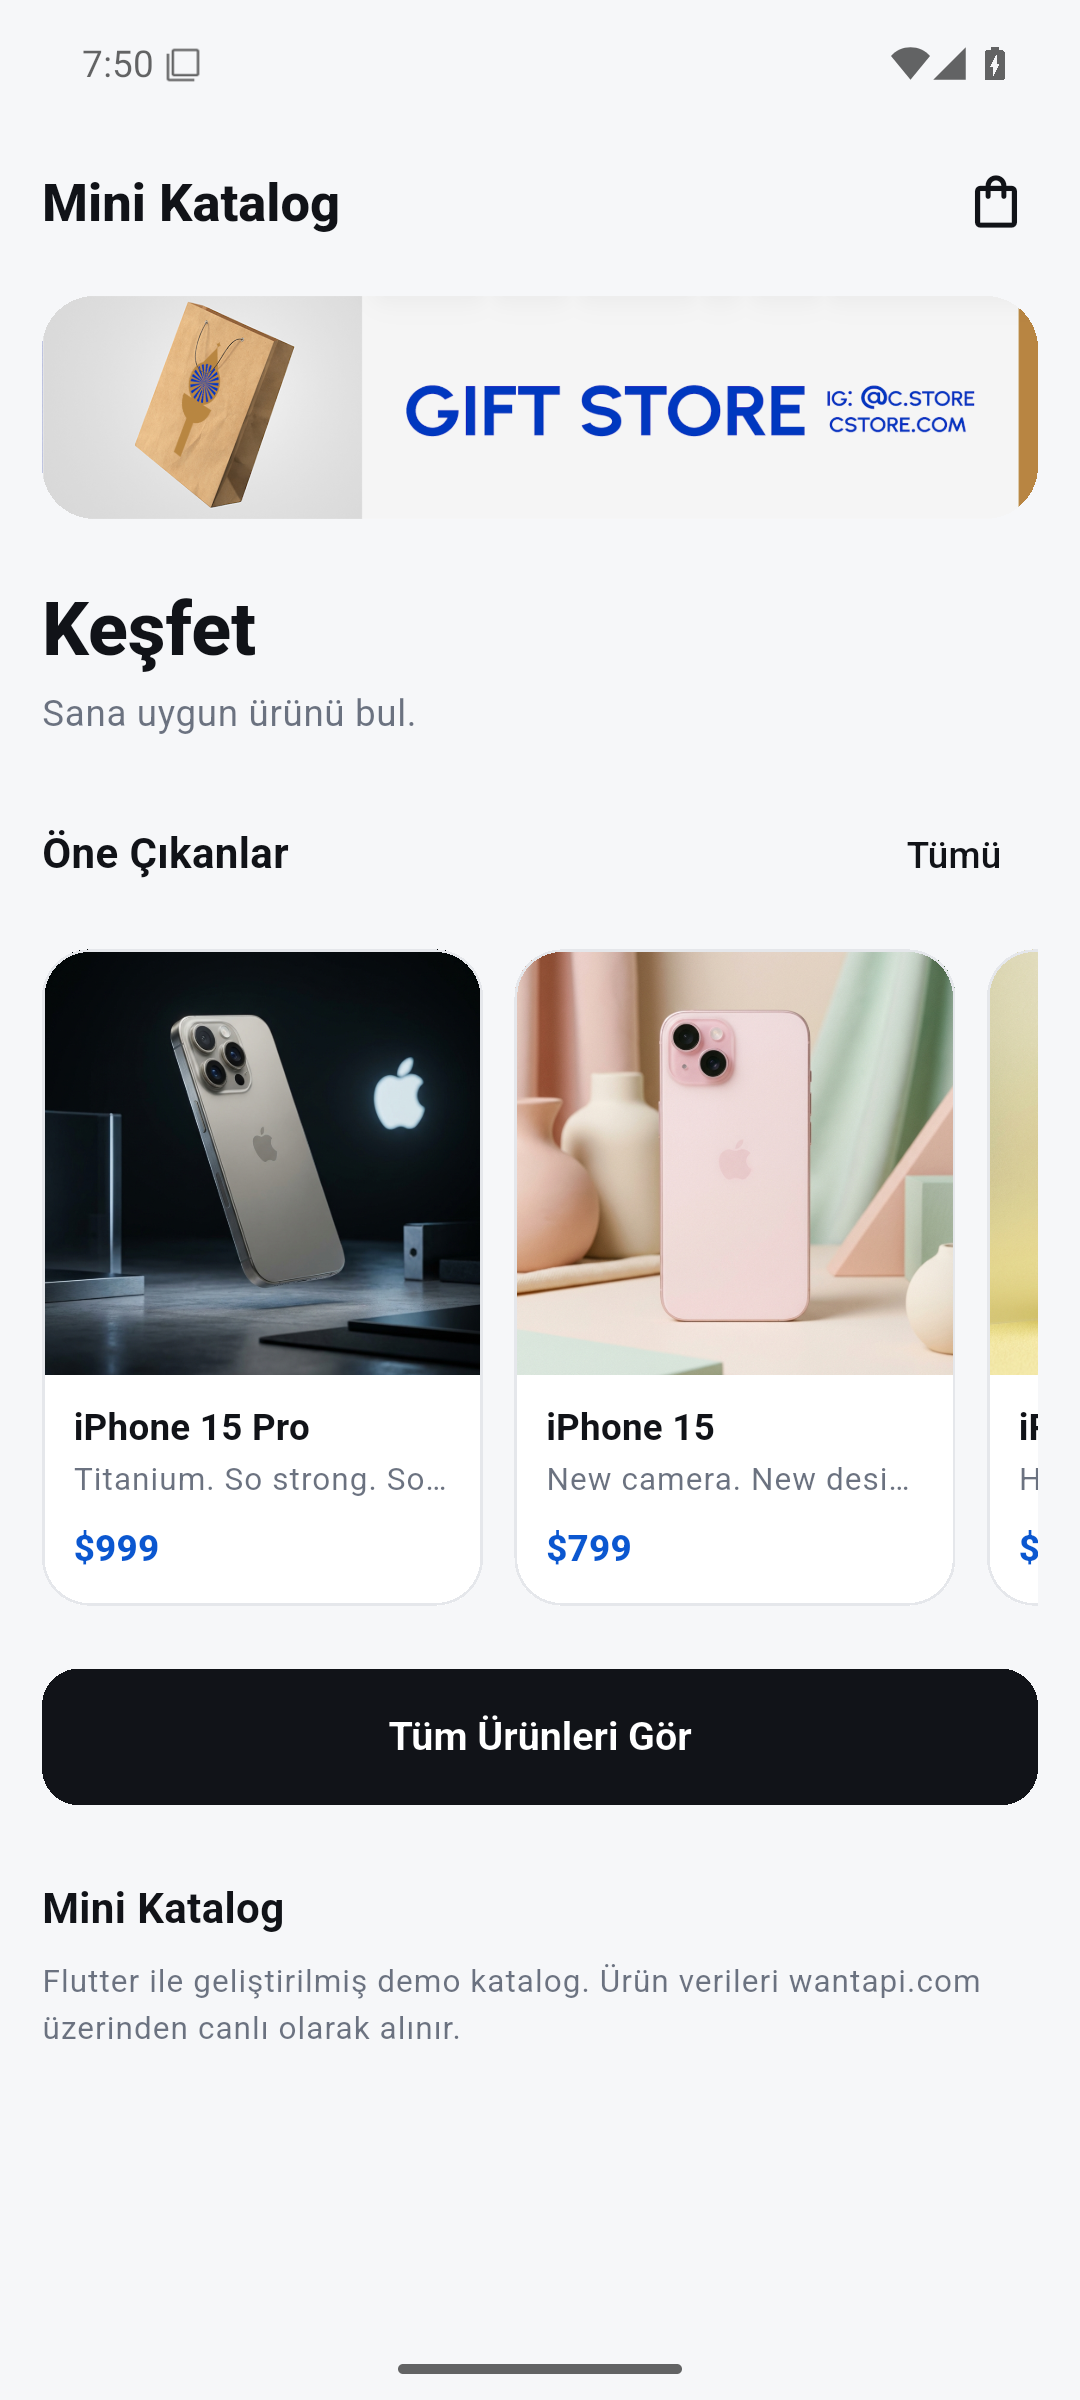
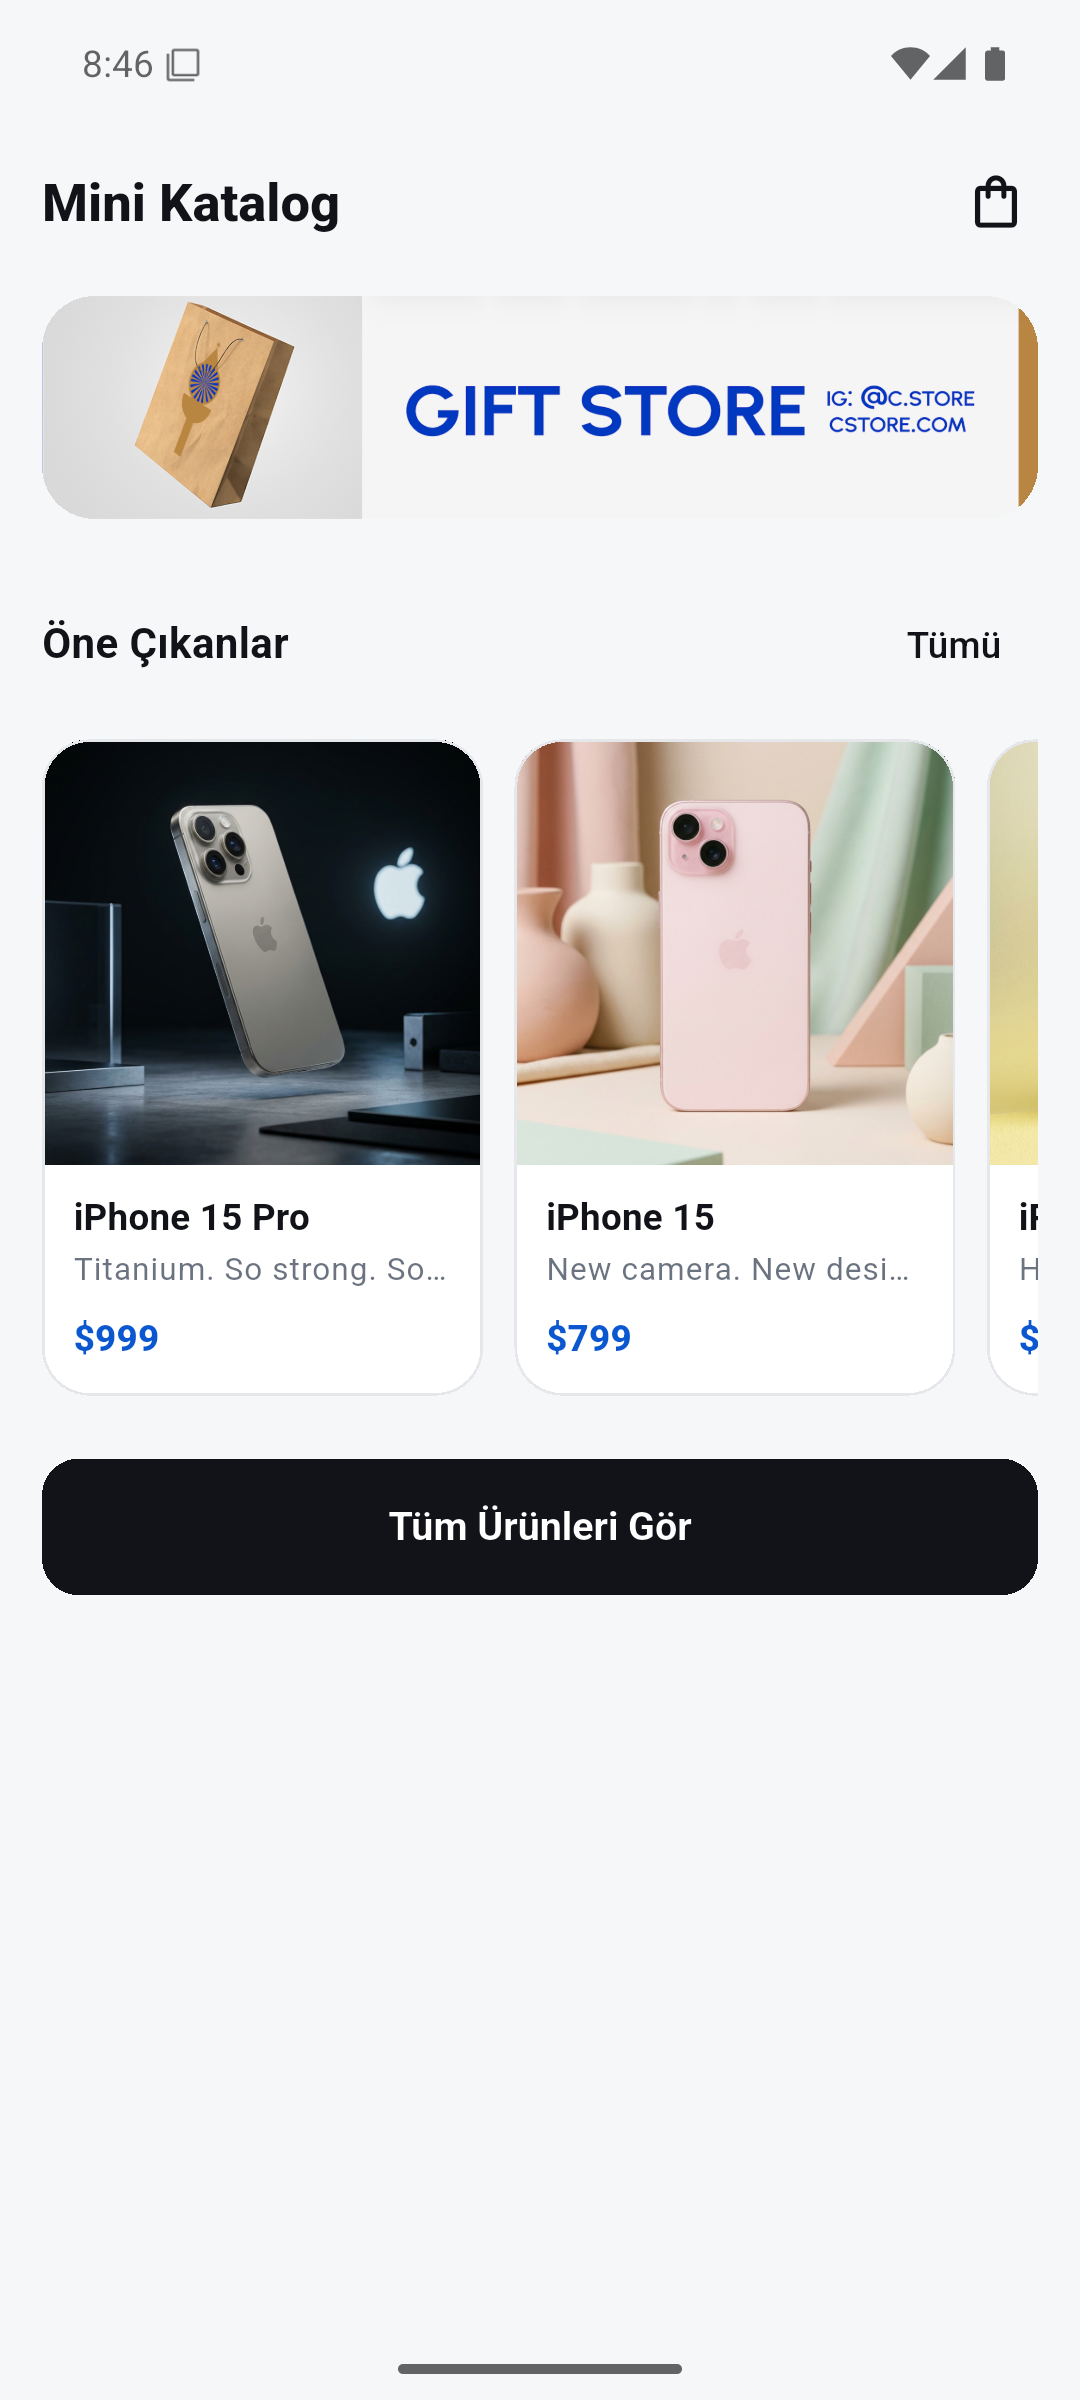
api servisi sadeleştirildi

diff --git a/lib/services/api_service.dart b/lib/services/api_service.dart
@@ -1,9 +1,8 @@
 import 'dart:async';
 import 'dart:convert';
+import 'dart:io';
 
 import '../models/product.dart';
-import 'http_client.dart';
-import 'network_exception.dart';
 
 class ApiException implements Exception {
   const ApiException(this.message);
@@ -18,22 +17,31 @@ class ApiService {
   ApiService({this.endpoint = _defaultEndpoint});
 
   static const String _defaultEndpoint = 'https://wantapi.com/products.php';
+  static const Duration _timeout = Duration(seconds: 20);
 
   final String endpoint;
 
   Future<List<Product>> fetchProducts() async {
+    final client = HttpClient()..connectionTimeout = _timeout;
+
     try {
-      final response = await fetchResponse(endpoint).timeout(
-        const Duration(seconds: 25),
-      );
+      final request =
+          await client.getUrl(Uri.parse(endpoint)).timeout(_timeout);
+      request.headers.set(HttpHeaders.acceptHeader, 'application/json');
+
+      final response = await request.close().timeout(_timeout);
+      final body =
+          await response.transform(utf8.decoder).join().timeout(_timeout);
+
       if (response.statusCode < 200 || response.statusCode >= 300) {
         throw ApiException('Sunucu hatası (${response.statusCode}).');
       }
 
-      final decoded = jsonDecode(response.body);
+      final decoded = jsonDecode(body);
       if (decoded is! Map<String, dynamic>) {
         throw const ApiException('Beklenmeyen veri biçimi.');
       }
+
       final data = decoded['data'];
       if (data is! List<dynamic>) {
         throw const ApiException('Ürün listesi bulunamadı.');
@@ -45,14 +53,16 @@ class ApiService {
           .toList(growable: false);
     } on ApiException {
       rethrow;
-    } on FetchException catch (error) {
-      throw ApiException(error.message);
+    } on SocketException {
+      throw const ApiException('İnternet bağlantısı kurulamadı.');
     } on TimeoutException {
       throw const ApiException('İstek zaman aşımına uğradı.');
     } on FormatException {
       throw const ApiException('Sunucu verisi çözümlenemedi.');
     } catch (_) {
       throw const ApiException('Ürün verisi işlenemedi.');
+    } finally {
+      client.close(force: true);
     }
   }
 }

diff --git a/lib/views/cart_screen.dart b/lib/views/cart_screen.dart
@@ -66,34 +66,15 @@ class _CartSummary extends StatelessWidget {
     final theme = Theme.of(context);
     return SafeArea(
       minimum: const EdgeInsets.fromLTRB(16, 8, 16, 12),
-      child: Column(
-        mainAxisSize: MainAxisSize.min,
+      child: Row(
         children: [
-          Row(
-            children: [
-              const Text('Toplam'),
-              const Spacer(),
-              Text(
-                formatUsd(cart.totalPrice),
-                style: theme.textTheme.titleLarge?.copyWith(
-                  color: theme.colorScheme.secondary,
-                  fontWeight: FontWeight.w800,
-                ),
-              ),
-            ],
-          ),
-          const SizedBox(height: 12),
-          SizedBox(
-            width: double.infinity,
-            child: FilledButton(
-              onPressed: () {
-                ScaffoldMessenger.of(context).showSnackBar(
-                  const SnackBar(
-                    content: Text('Demo uygulaması: ödeme alınmaz.'),
-                  ),
-                );
-              },
-              child: const Text('Ödemeye Geç (Demo)'),
+          const Text('Toplam'),
+          const Spacer(),
+          Text(
+            formatUsd(cart.totalPrice),
+            style: theme.textTheme.titleLarge?.copyWith(
+              color: theme.colorScheme.secondary,
+              fontWeight: FontWeight.w800,
             ),
           ),
         ],
@@ -126,14 +107,6 @@ class _EmptyCart extends StatelessWidget {
               'Sepetin boş',
               style: theme.textTheme.titleLarge?.copyWith(
                 fontWeight: FontWeight.w700,
-              ),
-            ),
-            const SizedBox(height: 6),
-            Text(
-              'Beğendiğin ürünleri sepete ekleyerek başla.',
-              textAlign: TextAlign.center,
-              style: theme.textTheme.bodyMedium?.copyWith(
-                color: theme.colorScheme.onSurfaceVariant,
               ),
             ),
             const SizedBox(height: 20),

diff --git a/lib/views/home_screen.dart b/lib/views/home_screen.dart
@@ -17,7 +17,6 @@ class HomeScreen extends StatelessWidget {
   @override
   Widget build(BuildContext context) {
     final catalog = AppScope.of(context).catalog;
-    final theme = Theme.of(context);
 
     return Scaffold(
       appBar: AppBar(
@@ -44,21 +43,6 @@ class HomeScreen extends StatelessWidget {
                   ),
                 ),
                 const SizedBox(height: 24),
-                Text(
-                  'Keşfet',
-                  style: theme.textTheme.headlineMedium?.copyWith(
-                    fontWeight: FontWeight.w800,
-                    color: theme.colorScheme.onSurface,
-                  ),
-                ),
-                const SizedBox(height: 4),
-                Text(
-                  'Sana uygun ürünü bul.',
-                  style: theme.textTheme.bodyMedium?.copyWith(
-                    color: theme.colorScheme.onSurfaceVariant,
-                  ),
-                ),
-                const SizedBox(height: 20),
                 _FeaturedSection(catalog: catalog),
                 const SizedBox(height: 24),
                 FilledButton(
@@ -67,22 +51,6 @@ class HomeScreen extends StatelessWidget {
                     ProductListScreen.routeName,
                   ),
                   child: const Text('Tüm Ürünleri Gör'),
-                ),
-                const SizedBox(height: 28),
-                Text(
-                  'Mini Katalog',
-                  style: theme.textTheme.titleMedium?.copyWith(
-                    fontWeight: FontWeight.w700,
-                  ),
-                ),
-                const SizedBox(height: 6),
-                Text(
-                  'Flutter ile geliştirilmiş demo katalog. Ürün verileri '
-                  'wantapi.com üzerinden canlı olarak alınır.',
-                  style: theme.textTheme.bodySmall?.copyWith(
-                    color: theme.colorScheme.onSurfaceVariant,
-                    height: 1.5,
-                  ),
                 ),
               ],
             );

diff --git a/README.md b/README.md
@@ -1,23 +1,8 @@
 # Mini Katalog
 
-Flutter ile geliştirilmiş, ürünleri canlı bir JSON kaynağından okuyan demo
-mobil katalog uygulaması. Eğitim projesi kapsamında ana sayfa, ürün listesi,
-ürün detayı ve sepet simülasyonu içerir.
-
-## Özellikler
-
-- Canlı ürün verisi: `https://wantapi.com/products.php`
-- Ana sayfa: banner, öne çıkan ürünler ve ürün listesine geçiş
-- Ürün listesi: iki sütunlu grid, arama ve aşağı çekerek yenileme
-- Ürün detayı: görsel, açıklama, dinamik özellikler ve sepete ekleme
-- Sepet: adet artırma/azaltma, ürün kaldırma, toplam tutar ve badge
-- Hata, yükleniyor ve boş durum ekranları
-- Responsive kart yapısı ve Material 3 teması
-
-## Kullanılan Flutter sürümü
-
-- Flutter 3.47.9 (stable)
-- Dart 3.13.7
+Flutter ile geliştirilmiş, ürünleri canlı JSON kaynağından okuyan demo mobil
+katalog uygulaması. Ana sayfa, ürün listesi, ürün detayı ve sepet simülasyonu
+içerir. Ürün verileri `https://wantapi.com/products.php` adresinden alınır.
 
 ## Çalıştırma
 
@@ -26,38 +11,15 @@ flutter pub get
 flutter run
 ```
 
-Android cihaz/emülatör için Android SDK ve USB hata ayıklama (veya emülatör)
-gereklidir. Uygulama internet izni ile gelir ve ürünleri çalışma anında
-`wantapi.com` üzerinden çeker. Projede iOS platform iskeleti de bulunur;
-iOS derlemesi için macOS ve Xcode gerekir.
+Android cihaz veya emülatör gereklidir. iOS derlemesi için macOS ve Xcode
+gerekir. Cihazda görünen uygulama adı: **Software Persona E-Commerce**.
 
-Cihazda görünen uygulama adı: **Software Persona E-Commerce**.
+## Flutter sürümü
 
-## Doğrulama
-
-```bash
-flutter analyze
-flutter test
-```
-
-## APK üretimi
-
-```bash
-flutter build apk --release
-flutter build apk --release --split-per-abi
-flutter build appbundle --release
-```
-
-Çıktı: `build/app/outputs/flutter-apk/app-release.apk`
+- Flutter 3.47.9
+- Dart 3.13.7
 
 ## Ekran görüntüleri
-
-Ekran görüntüleri `docs/screenshots/` klasöründedir:
-
-- `01-home.png` — Ana Sayfa
-- `02-products.png` — Ürün Listesi
-- `03-detail.png` — Ürün Detayı
-- `04-cart.png` — Sepet
 
 ![Ana Sayfa](docs/screenshots/01-home.png)
 
@@ -66,23 +28,3 @@ Ekran görüntüleri `docs/screenshots/` klasöründedir:
 ![Ürün Detayı](docs/screenshots/03-detail.png)
 
 ![Sepet](docs/screenshots/04-cart.png)
-
-## Proje yapısı
-
-```text
-lib/
-  main.dart
-  models/        Product, CartItem
-  services/      ApiService
-  state/         CatalogController, CartController, AppScope
-  theme/         AppTheme
-  utils/         fiyat formatlayıcı
-  views/         Home, ProductList, ProductDetail, Cart
-  components/    ProductCard, CartIconButton, ErrorView
-```
-
-## Notlar
-
-- Bu proje eğitim/demo amaçlıdır; gerçek ödeme veya sipariş işlemi yapmaz.
-- Ürün verileri ve banner görseli `wantapi.com` üzerinden temin edilmiştir.
-- Ağ hatasında liste ekranında tekrar deneme ve yenileme desteği bulunur.
